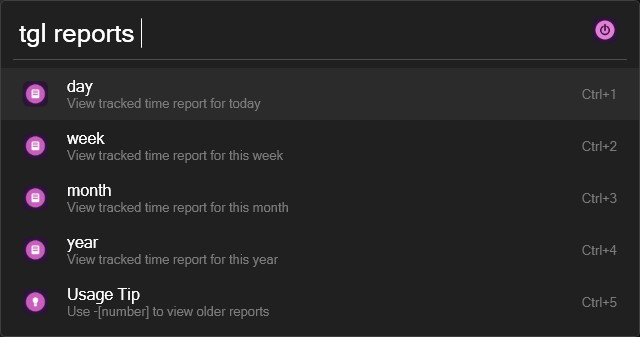
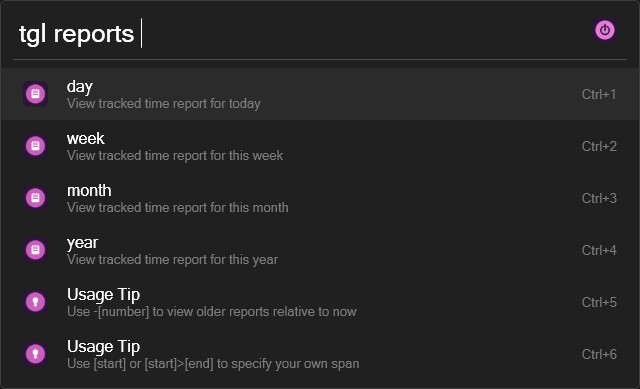
docs(readme): :memo: document arbitrary `reports` date(s) (#55)

diff --git a/README.md b/README.md
@@ -349,20 +349,33 @@ When followed by anything other than a command name, the list of results will co
 - `tgl reports month entries [time entry description search query]`
 - `tgl reports week-3 projects no-project [time entry description search query]`
 
+#### With Arbitrary Date(s)
+- `tgl reports 21/9 entries`
+- `tgl reports 1/1/2021> projects`
+- `tgl reports 2/1/2021>5/6/2021 clients`
+
 ### Flags and Options
 | Name           | Flag | Description                                                  | Example |
 | -------------- | ---- | ------------------------------------------------------------ | ------- |
 | Show Stop Time | `-S` | Show time entry stop times when displaying a detailed report | `-S`    |
 
-| Name               | Option            | Description                                  | Example   |
-| ------------------ | ----------------- | -------------------------------------------- | --------- |
-| Report Span Offset | `[span]-[offset]` | Offset the report span by a specified offset | `month-1` |
+| Name               | Option            | Description                                                               | Example      |
+| ------------------ | ----------------- | ------------------------------------------------------------------------- | ------------ |
+| Report Span Offset | `[span]-[offset]` | Offset the report span by a specified offset                              | `month-1`    |
+| To End Date        | `[start]>[end]`   | The separator between the `[start]` and the `[end]` of the arbitrary span | `21/9>21/10` |
 
-### Notes
+### Notes and Warnings
 > **Note**  
-> 1. Reports of tracked time entries can be filtered with a fuzzy search.
-> 2. Selecting a time entry will autofill the `tgl start` command.
-> 3. To include `'-S'` in your fuzzy search, you can escape it with a backslash—eg `tgl reports day entries \-S`
+> 1. Arbitrary date(s) are parsed according to your system locale (eg for `en-US`, your format of `MM/dd` will be used instead).
+> 2. Date parsing is done by the built-in `DateTimeOffset.TryParse` method. Read about what it supports [here](https://learn.microsoft.com/en-us/dotnet/api/system.datetime.parse?view=net-7.0#the-string-to-parse) and [here](https://learn.microsoft.com/en-us/dotnet/api/system.datetimeoffset.tryparse?view=net-7.0#system-datetimeoffset-tryparse(system-string-system-datetimeoffset@)).
+> 3. Using the `>` separator without supplying an `[end]` date will produce a span between `[start]` and the current date.
+> 4. Reports of tracked time entries can be filtered with a fuzzy search.
+> 5. Selecting a time entry will autofill the `tgl start` command.
+> 6. To include `'-S'` in your fuzzy search, you can escape it with a backslash—eg `tgl reports day entries \-S`
+
+> **Warning**  
+> 1. The `[end]` date must be after the `[start]` date.
+> 2. The arbitrary report span must not exceed one year (Toggl API limitation).
 
 ### Screenshots
 ![Tracked time report span selection](assets/screenshots/reports/spans.jpg)
@@ -384,6 +397,13 @@ When followed by anything other than a command name, the list of results will co
 ![View tracked time report by client projects](assets/screenshots/reports/clients-projects.jpg)
 
 ![View tracked time report by entries with fuzzy filter](assets/screenshots/reports/entries-fuzzy.jpg)
+
+#### With Arbitrary Date(s)
+![View tracked time report on an arbitrary date](assets/screenshots/reports/arbitrary-date.png)
+
+![View tracked time report from an arbitrary date to now](assets/screenshots/reports/arbitrary-span-now.png)
+
+![View tracked time report over an arbitrary span](assets/screenshots/reports/arbitrary-span.png)
 
 ---
 
